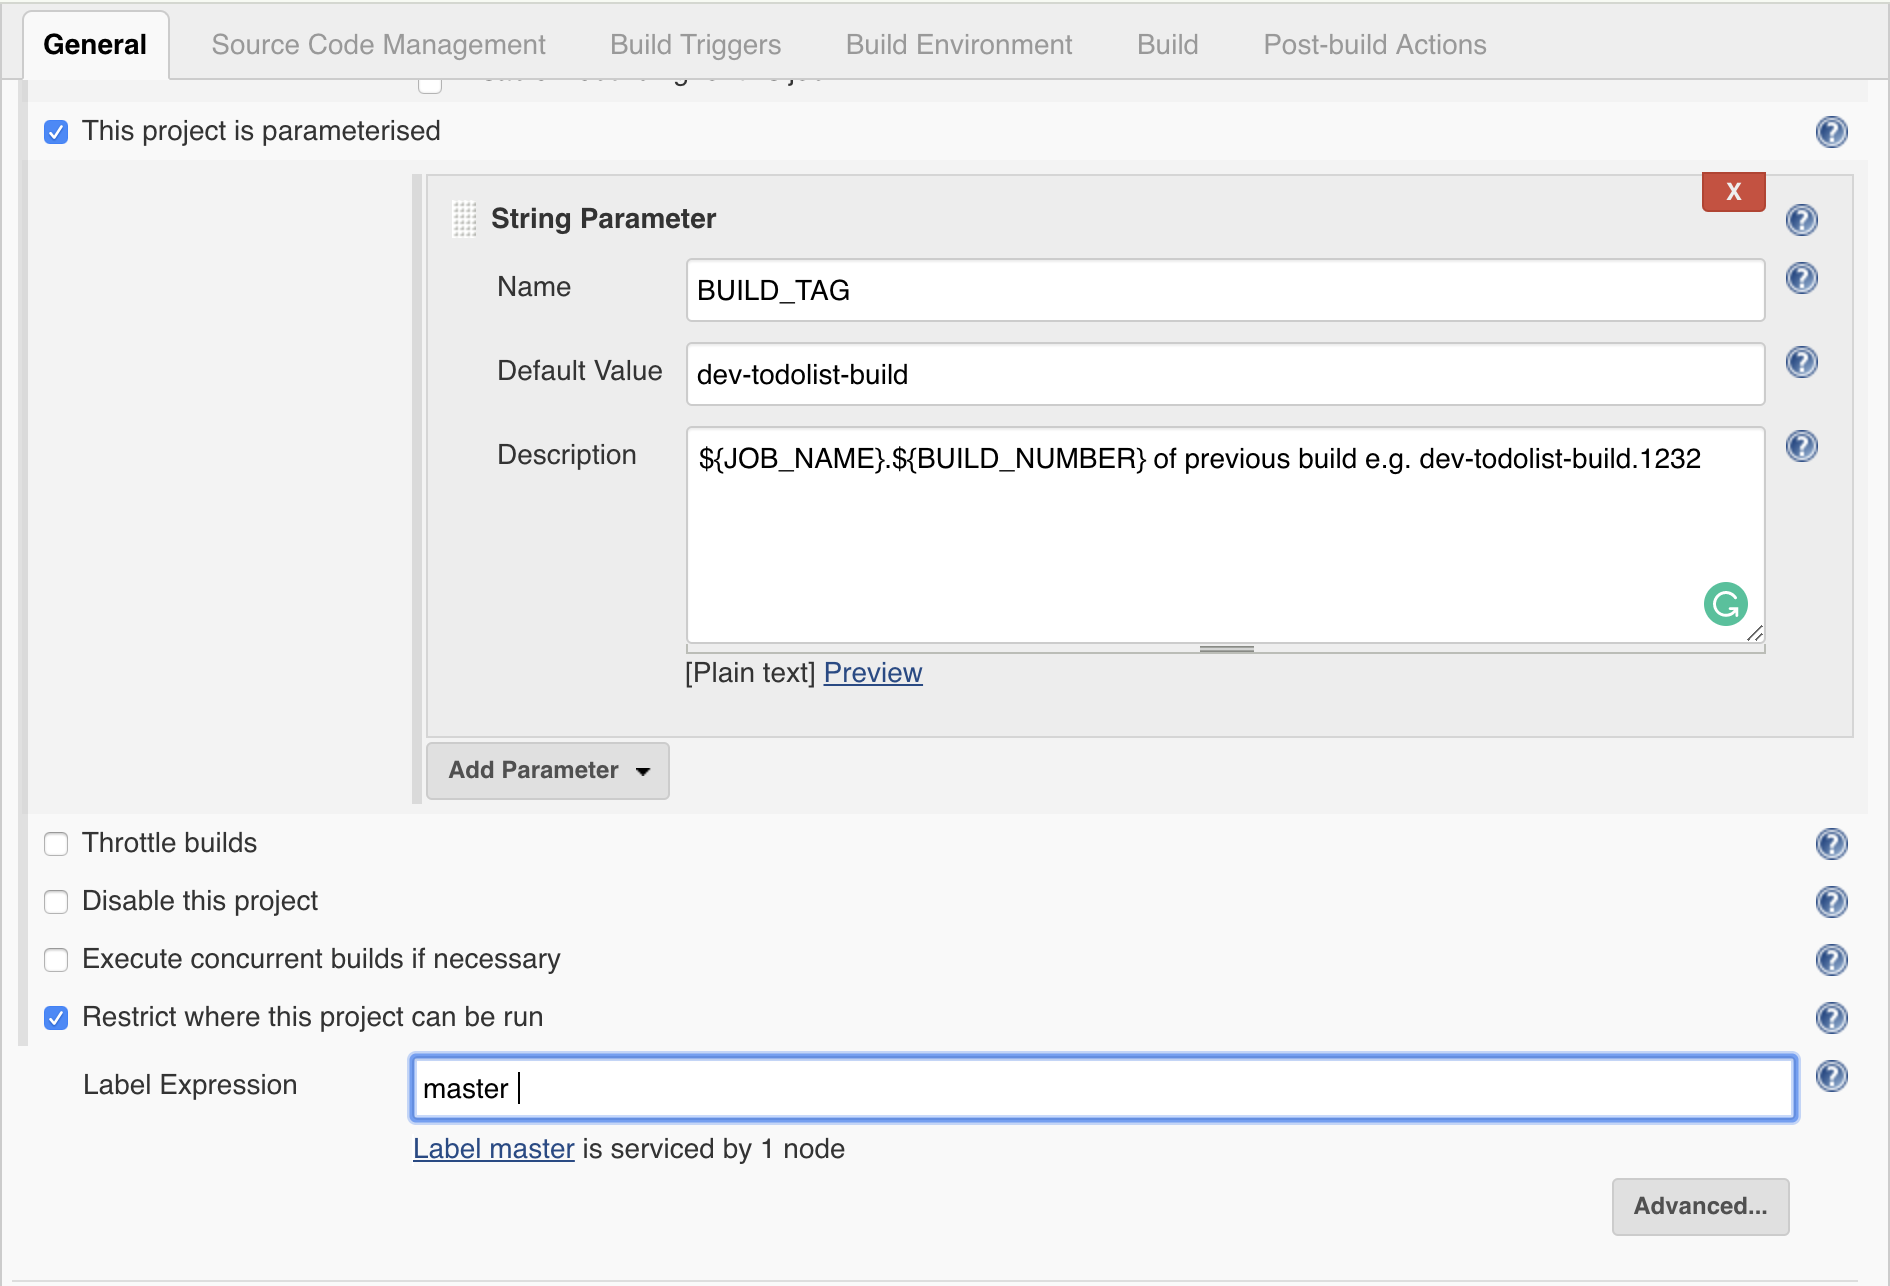
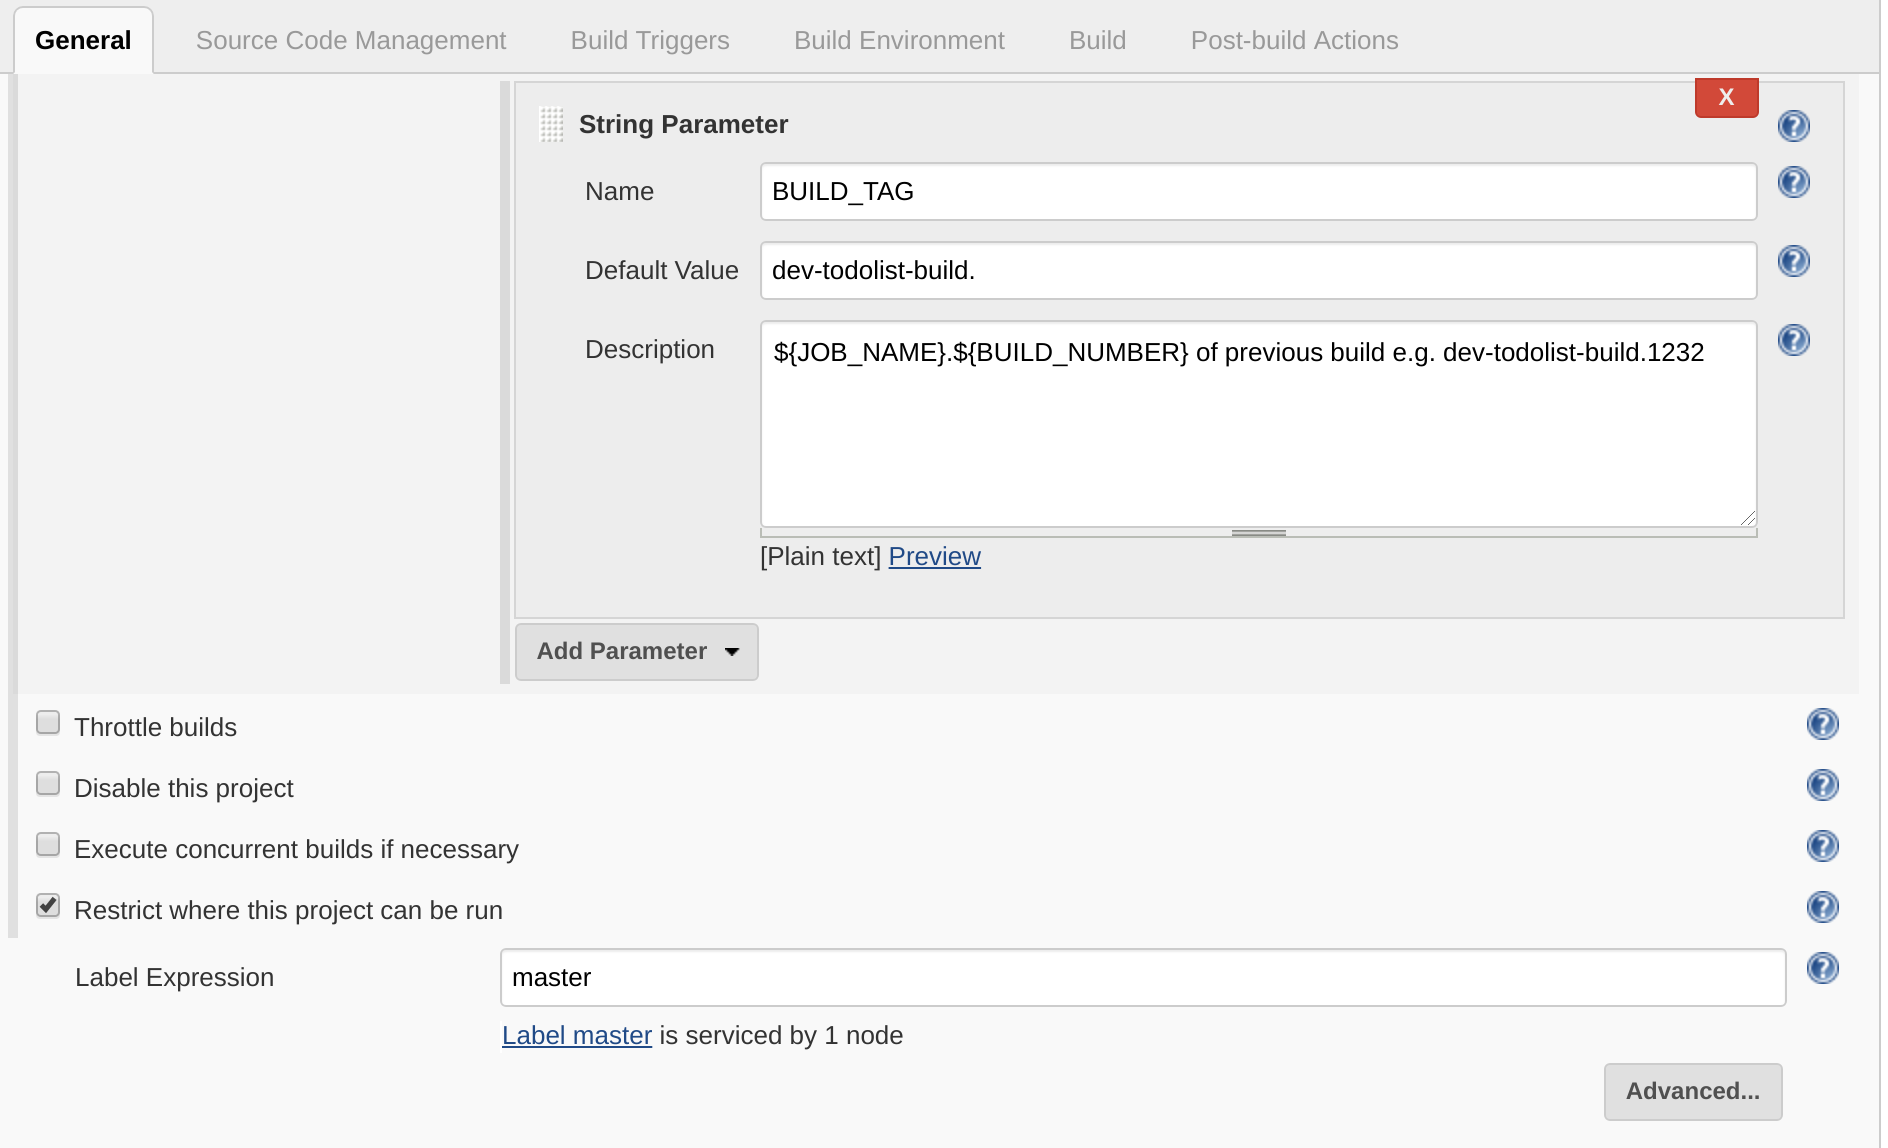
🚀 incorrect screenie of default value - missing the dot 🔯🚀

Changed region(s): [[0.0, 0.0, 1.0, 0.9146], [0.8438, 0.9146, 0.9688, 0.9756]]

diff --git a/exercises/2-attack-of-the-pipelines/README.md b/exercises/2-attack-of-the-pipelines/README.md
@@ -443,8 +443,8 @@ Automated commit by jenkins from ${JOB_NAME}.${BUILD_NUMBER}
 ![git-publisher](../images/exercise2/git-publisher.png)
 
 10. Finally; add the trigger for the next job in the pipeline. This is to trigger the bake job with the current build tag. Add another post-build action from the dropdown called `Trigger parameterized build on other projects`.
-    * Set the project to build to be `dev-todolist-bake-deploy`.
-    * Set the condition to be `Stable or unstable but not failed`.
+    * Set the project to build to be `dev-todolist-bake-deploy`
+    * Set the condition to be `Stable or unstable but not failed`
     * Click Add Parameters dropdown and select Predefined parameters.
     * In the box, insert our BUILD_TAG as follows
 ```bash
